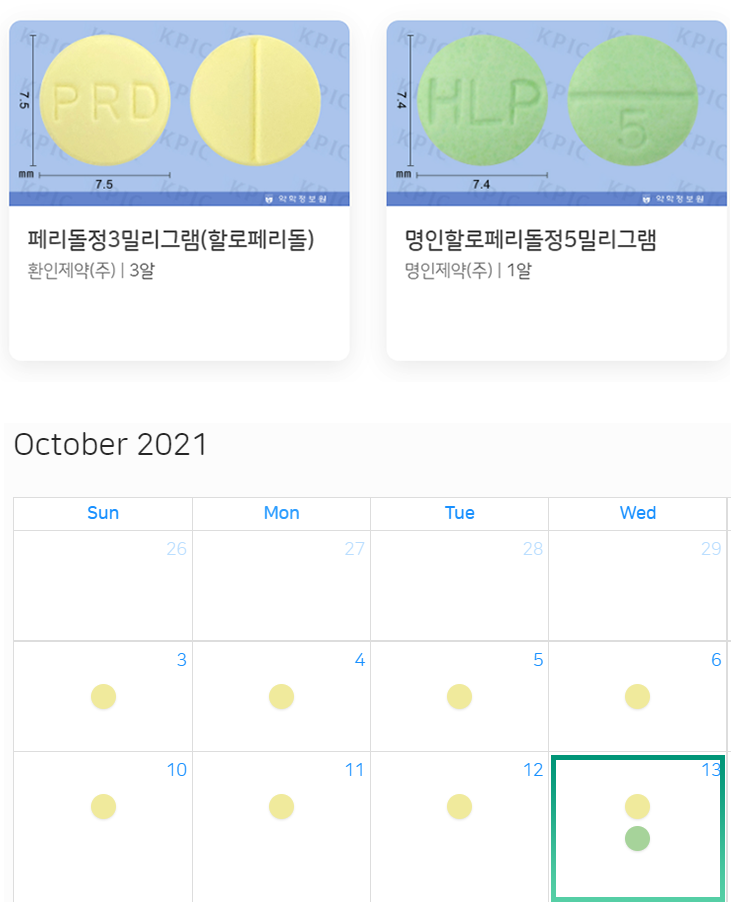
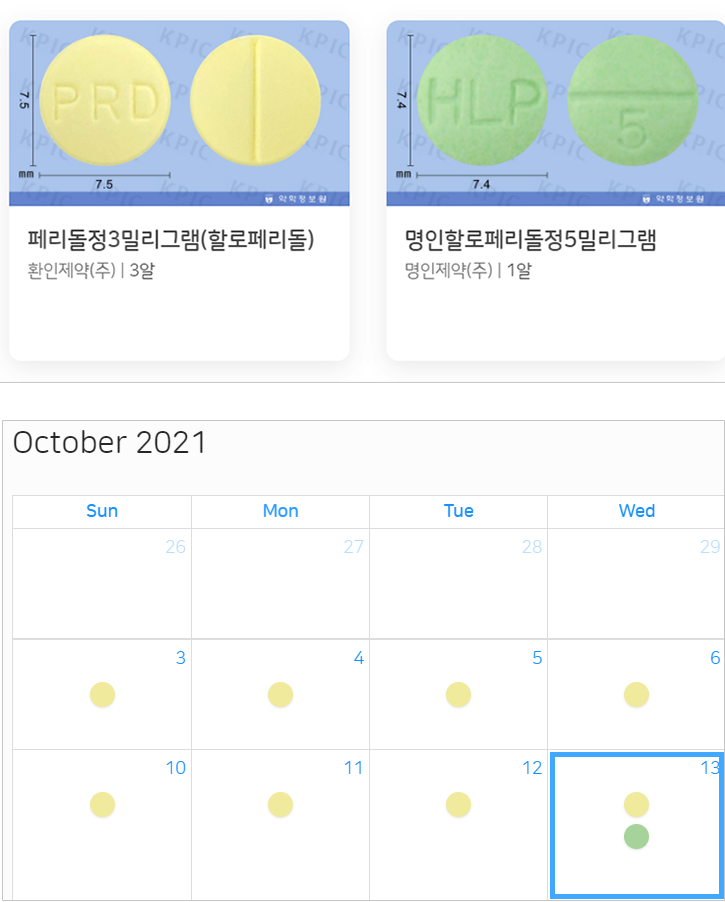
update medikit function images

diff --git a/_layouts/medikit.html b/_layouts/medikit.html
@@ -158,14 +158,14 @@ layout: default
                     
                     <div class="swiper-slide function">
                       <div class="imgDiv">
-                      <a href="/assets/img/projects/medikit/11.png"
-                        target="_blank"><img id="first_1" src="/assets/img/projects/medikit/11.png"></a>
+                      <a href="/assets/img/projects/medikit/mobile1.png"
+                        target="_blank"><img id="first_1" src="/assets/img/projects/medikit/mobile1.png"></a>
                       <!-- <h2 style="font-weight:500">#1 캠페인 제안</h1><br> -->
                         <a href="/assets/img/projects/medikit/12.png"
                         target="_blank">
                         <img id="first_2" src="/assets/img/projects/medikit/12.png"></a>
-                        <a href="/assets/img/projects/medikit/mobile1.png"
-                        target="_blank"><img id="first_mobile" src="/assets/img/projects/medikit/mobile1.png"></a>
+                        <!-- <a href="/assets/img/projects/medikit/mobile1.png"
+                        target="_blank"><img id="first_mobile" src="/assets/img/projects/medikit/mobile1.png"></a> -->
                       <div className="helper">
                       </div>
                       </div>
@@ -205,10 +205,8 @@ layout: default
                     <div class="swiper-slide function">
                       <a href="/assets/img/projects/medikit/31.png"
                       target="_blank"><img id="third_1" src="/assets/img/projects/medikit/31.png"></a>
-                      <a href="/assets/img/projects/medikit/32.png"
-                      target="_blank"><img id="third_2" src="/assets/img/projects/medikit/32.png"></a>
                       <a href="/assets/img/projects/medikit/mobile3.png"
-                      target="_blank"><img id="third_mobile" src="/assets/img/projects/medikit/mobile3.png"></a>
+                      target="_blank"><img id="third_2" src="/assets/img/projects/medikit/mobile3.png"></a>
                     <div class="function-desc" id="thirdDesc">
                       <span class="desc-title">-</span><br/> 멤버쉽 제도에 따라<br>
                       결제 기능을 지원합니다.<br>

diff --git a/assets/css/medikit.css b/assets/css/medikit.css
@@ -1209,8 +1209,8 @@ section {
   #counts {
     width: 90vw;
   }
-  #first_mobile,
-  #third_mobile,
+  #first_1,
+  #third_2,
   #second_1 {
     width: 85vw;
   }
@@ -1235,10 +1235,7 @@ section {
   }
 
   #third_1,
-  #first_1,
   #first_2,
-  #third_2,
-  #third_3,
   .sub-desc {
     display: none;
   }

diff --git a/_posts/2021-11-01-event-handling.md b/_posts/2021-11-01-event-handling.md
@@ -1,0 +1,96 @@
+---
+layout: post
+title: "[React] React Hooks "
+---
+
+#### useState
+
+가장 기본적인 Hook으로 상태 관리를 가능하게 함.
+
+- 함수의 파라미터에는 상태의 기본값을 입력
+- useState는 하나의 상태 값만 관리할 수 있으므로
+- 여러 상태를 관리해야한다면 useState를 여러 번 쓸 것
+
+#### useEffect
+
+렌더링 직후 작업을 설정 클래스형 컴포넌트의 componentDidMout와 componentDidUpdate를 합친 형태
+
+- 마운팅될 때만 실행하고 싶을 때: 함수의 두 번째 파라미터로 비어있는 배열을 넣어줄 것
+
+```javaScript
+useEffect(()=>{
+  console.log('execute only when mounted');
+}. []);
+```
+
+- 특정 값 업데이트 시에만 실행하고 싶을 때: 배열 안에 검사하고 싶은 값을 넣어줌
+
+```javaScript
+useEffect(()=>{
+  console.log(name);
+}. [name]);
+```
+
+- 뒷정리. 컴포넌트가 언마운트/업데이트 되기 직전에 수행하고 싶은 작업이 있다면 뒷정리(cleanup함수) 반환해주어야.
+
+
+```javascript
+useEffect(() => {
+  console.log("effect");
+  console.log(name);
+  return () => {
+    console.log("cleanup");
+    console.log(name);
+  };
+});
+```
+### useReducer
+- 리듀서: 현재 상태, 업데이트를 위해 필요한 정보를 담은 액션 값을 전달받아, 새로운 상태를 반환하는 함수.
+- 새로운 상태를 만들 때 반드시 불변성 지켜줘야함
+```javaScript
+function reducer(state, action){
+  return {...};
+}
+// 액션값의 형태
+{ 
+  type: 'INCREMENT' 
+}
+
+```
+
+
+
+<!--
+#### 이벤트핸들링
+이벤트 : 사용자가 웹 브라우저에서 DOM 요소들과 상호작용하는 것
+- 리액트에서 이벤트 이름은 카멜 표기법으로 작성
+- ex) onClick, onChange, onKeyUp
+- 이벤트에 자바스크립트 코드 X , 함수 형태의 값 전달
+
+
+#### 라이프사이클
+모든 리액트 컴포넌트에는 수명주기가 존재.
+- 컴포넌트 업데이트 전후로 어떤 작업 처리해야 하는 경우, 불필요한 업데이트 방지해야 하는 경우
+=> *라이프사이클 메서드* 사용, 클래스형 컴포넌트에서 사용. 함수형에서는 Hooks로 대신
+
+
+- Mount
+  - DOM이 생성되고 웹브라우저에 나타나는 것
+- Update
+  - props가 바뀔 때
+  - state가 바뀔 때
+  - 부모 컴포넌트가 리렌더링
+  - this.forceUpdate로 강제로 렌더링
+
+- Unmount
+  - 컴포넌트를 DOM에서 제거
+
+#### 라이프사이클 메서드
+- `render() {...}`
+  - lifecycle method 중 유일한 필수 메서드
+  - this.props, this.state에 접근 가능
+  - react 요소 반환
+  - 아무것도 반환하고 싶지 않다면 null or false 반환
+-  -->
+
+출처: 『리액트를 다루는 기술』, 길벗출판사

diff --git a/_posts/2021-11-01-state-of-react.md b/_posts/2021-11-01-state-of-react.md
@@ -1,0 +1,87 @@
+---
+layout: post
+title: "[React] state "
+---
+
+state: 컴포넌트 내부에서 바뀔 수 있는 값
+props: 부모 컴포넌트가 설정하는 값. 해당 props는 읽기 전용
+
+
+- 클래스형 컴포넌트의 state
+
+```javaScript
+Class Counter extends Components {
+  // state 설정법 (1)
+  // constructor 메소드 작성
+  // constructor(props){
+  //   super(props);
+  //   // state의 초기값 설정
+  //   this.state = {
+  //     number: 0,
+  //     fixedNumber:0
+  //   }
+  // state 설정법 (2)
+  state = {
+    number :0;,
+// - state 객체 안에는 여러 값이 있을 수 있음
+    fixedNumber:0
+    };
+  }
+
+  render(){
+    const {number} = this.state;
+    return (
+      <div> <h1>{number}</h1>
+      <button // onClick을 통해 호출될 함수 지정합니다
+      onClick={()=>{
+        this.setState({number:number + 1,
+        // 값 업데이트 뒤 특정 작업 실행하고 싶을 때
+        () => {
+          console.log('방금 setState가 호출되었습니다.');
+         
+        })
+      }}>+1
+    </button></div>
+    );}
+  }
+
+```
+
+```javaScript
+<button onClick={() => {
+  this.setState(prevState => {
+    return {
+      number: prevState.number + 1
+    };
+  });
+
+  this.setState(prevState => ({
+    number: prevState.number + 1
+  }))
+}}
+
+```
+
+state 사용할 때 주의사항
+```javaScript
+// 잘못된 코드
+this.state.number = this.state.number + 1;
+this.state.array = this.array.push(2);
+
+// 올바른 코드 
+const object = {a:1, b:2, c:3};
+const nextObject = {...object, b:2};
+
+const array = [
+  {id: 1, value:true},
+  {id: 2, value:true},
+  {id: 3, value:false},
+];
+let nextArray = array.concat({id:4}); // 새항목 추가
+nextArray.filter(item=>item.id !==2);
+nextArray.map(item=>(item.id === 1{...item, value:false} : item));
+
+
+
+```
+출처: 『리액트를 다루는 기술』, 길벗출판사
